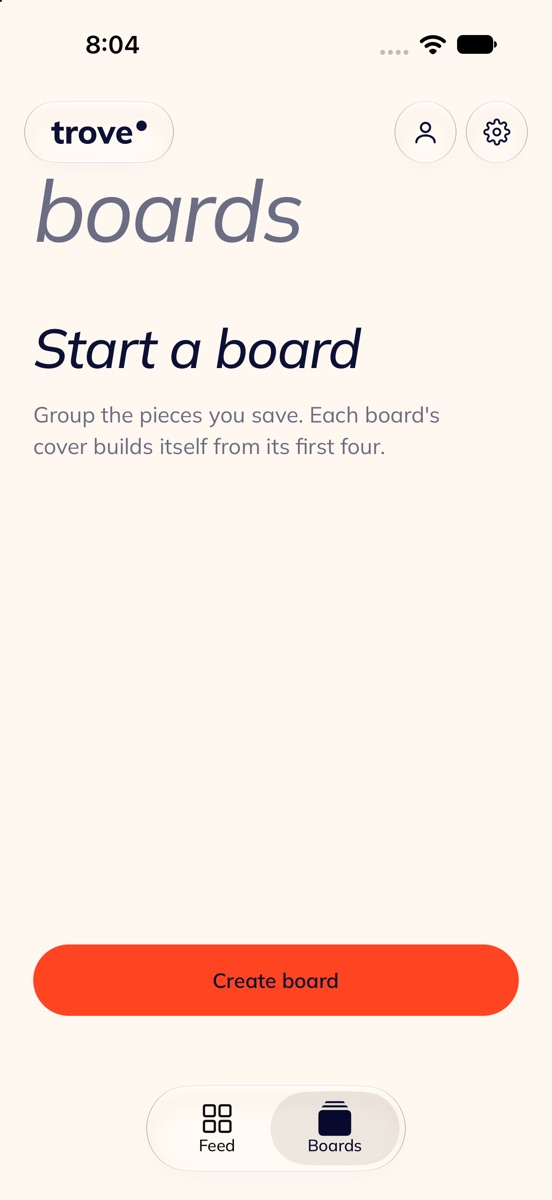
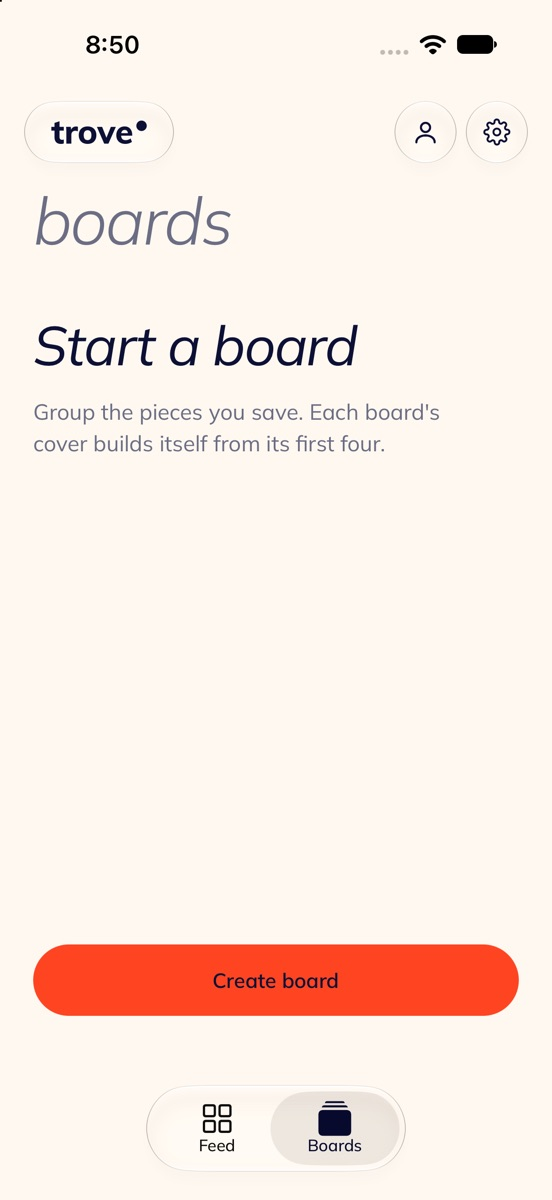
Lighter display italic; breathing room under the boards header
- display: Medium Italic -> Regular Italic, so it no longer outweighs
  the lighter displayXl above it.
- Boards title row gets the same top spacing as the feed masthead.

diff --git a/mobile/app/(tabs)/boards.tsx b/mobile/app/(tabs)/boards.tsx
@@ -82,7 +82,7 @@ export function BoardCard({ board, style }: { board: Board; style?: object }) {
 
 const styles = StyleSheet.create({
   root:      { flex: 1, backgroundColor: Colors.bg },
-  titleRow:  { flexDirection: 'row', alignItems: 'flex-start', justifyContent: 'space-between', paddingHorizontal: Spacing.screen, paddingBottom: Spacing[5] },
+  titleRow:  { flexDirection: 'row', alignItems: 'flex-start', justifyContent: 'space-between', paddingHorizontal: Spacing.screen, paddingTop: Spacing[4], paddingBottom: Spacing[5] },
   pageLabel: { ...Typography.displayXl, color: Colors.textMuted },
   newBoardBtn: { marginTop: Spacing[4], width: 32, height: 32, borderRadius: 16, backgroundColor: Colors.surface, alignItems: 'center', justifyContent: 'center' },
   // One full-width bento per board; capped on wide web viewports.

diff --git a/mobile/src/lib/theme.ts b/mobile/src/lib/theme.ts
@@ -61,7 +61,7 @@ export const Typography: Record<string, TextStyle> = {
   },
   // Step titles, board name on cover, empty-state headers
   display: {
-    fontFamily: 'Mulish_500Medium_Italic',
+    fontFamily: 'Mulish_400Regular_Italic',
     fontSize: 40,
     letterSpacing: -0.8,
     lineHeight: 40,
